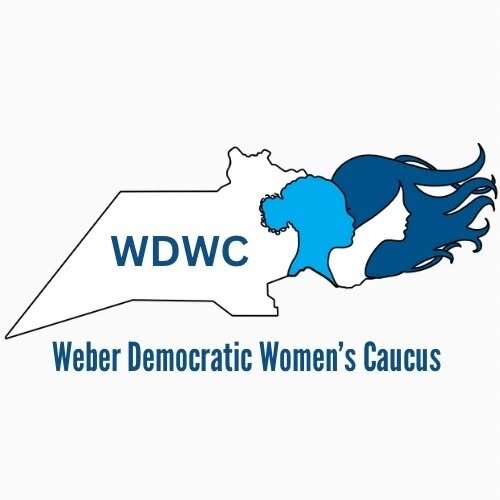
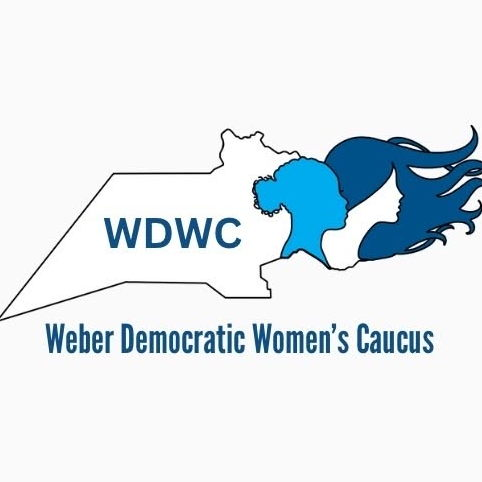
Org and caucus endorsement images.

Changed region(s): [[0.0, 0.249, 1.0, 0.7469]]

diff --git a/src/lib/data/endorsements.ts b/src/lib/data/endorsements.ts
@@ -32,22 +32,23 @@ export const endorsements: Endorsement[] = [
 	{ id: 'kim-james', category: 'person', name: 'Kim James', role: 'Candidate - Utah House District 8', photo: '/images/endorsements/kim_james.jpg' },
 
 	// Businesses & organizations
-	{ id: 'wsu-democrats', category: 'organization', name: 'WSU Democrats' },
-	{ id: 'weber-county-progressives', category: 'organization', name: 'Weber County Progressive Caucus' },
-	{ id: 'ogden-50501', category: 'organization', name: 'Ogden 50501' },
+	{ id: 'wsu-democrats', category: 'organization', name: 'WSU Democrats', photo: '/images/endorsements/wsu_democrats.jpg' },
+	{ id: 'weber-county-progressives', category: 'organization', name: 'Weber County Progressive Caucus', photo: '/images/endorsements/weber_county_progressive_caucus.jpg' },
+	{ id: 'ogden-50501', category: 'organization', name: 'Ogden 50501', photo: '/images/endorsements/ogden_50501.jpg' },
 	{
 		id: 'weber-dem-womens-caucus',
 		category: 'organization',
-		name: 'Weber Democratic Women’s Caucus'
+		name: 'Weber Democratic Women’s Caucus',
+		photo: '/images/endorsements/weber_democratic_womens_caucus.jpg'
 	},
-	{ id: 'utah-dem-black-caucus', category: 'organization', name: 'Utah Democratic Black Caucus' },
+	{ id: 'utah-dem-black-caucus', category: 'organization', name: 'Utah Democratic Black Caucus', photo: '/images/endorsements/utah_democratic_black_caucus.jpg' },
 	{ id: 'labor-caucus', category: 'organization', name: 'Labor Caucus' },
 	{ id: 'nalc-branch-68', category: 'organization', name: 'NALC - Branch 68' },
 	{ id: 'nalc-branch-970', category: 'organization', name: 'NALC - Branch 970' },
-	{ id: 'afscme-1004', category: 'organization', name: 'AFSCME - 1004' },
-	{ id: 'utah-veterans-caucus', category: 'organization', name: 'Utah Veterans Democratic Caucus' },
-	{ id: 'environmental-caucus', category: 'organization', name: 'Environmental Caucus' },
-	{ id: 'womens-dem-club-utah', category: 'organization', name: 'Women’s Democratic Club of Utah' }
+	{ id: 'afscme-1004', category: 'organization', name: 'AFSCME - 1004', photo: '/images/endorsements/afscme_1004.jpg' },
+	{ id: 'utah-veterans-caucus', category: 'organization', name: 'Utah Veterans Democratic Caucus', photo: '/images/endorsements/utah_veterans_democratic_caucus.jpg' },
+	{ id: 'environmental-caucus', category: 'organization', name: 'Environmental Caucus', photo: '/images/endorsements/environmental_caucus.jpg' },
+	{ id: 'womens-dem-club-utah', category: 'organization', name: 'Women’s Democratic Club of Utah', photo: '/images/endorsements/womens_democratic_club_of_utah.jpg' }
 ];
 
 /** Individual endorsers. */

diff --git a/src/routes/+layout.svelte b/src/routes/+layout.svelte
@@ -116,13 +116,15 @@
 			text-align: center;
 		}
 
-		/* Intro ledes opt out of the body-justify above and follow their own
-		   container's alignment (left on most pages, centered on events/interviews). */
+		/* Intro ledes + short card body copy opt out of the body-justify above and
+		   follow their own container's alignment (left on most pages, centered on
+		   events/interviews). */
 		.layout-main :global(.about-intro-lede),
 		.layout-main :global(.contact-lede),
 		.layout-main :global(.endorse-lede),
 		.layout-main :global(.media-block-lede),
 		.layout-main :global(.pol-lede),
+		.layout-main :global(.pol-area-text),
 		.layout-main :global(.policies-lede),
 		.layout-main :global(.pri-lede),
 		.layout-main :global(.events-intro),

diff --git a/src/lib/components/EndorsementCard.svelte b/src/lib/components/EndorsementCard.svelte
@@ -61,9 +61,10 @@
 		border-color: var(--line-l);
 	}
 
+	/* Org images are already framed 1:1 squares — fill the photo frame (the old
+	   contain + padding left a light gap at the top). */
 	.endorsement-photo--organization img {
-		object-fit: contain;
-		padding: 1.25rem;
+		object-fit: cover;
 	}
 
 	.endorsement-photo--organization .endorsement-initials {
